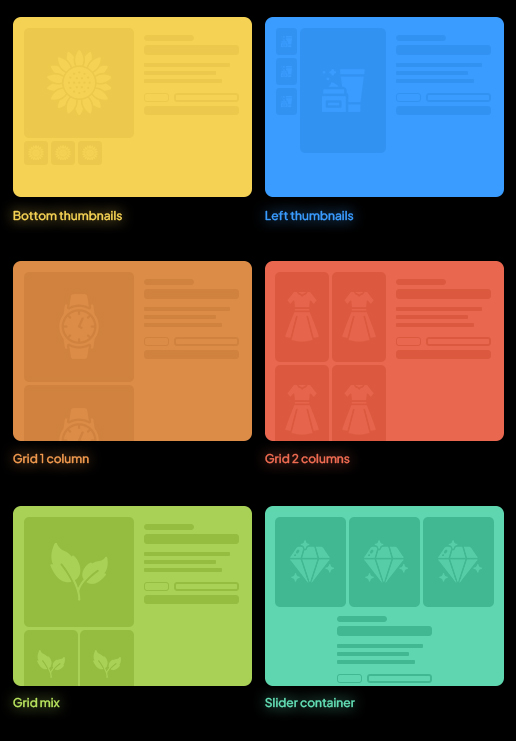
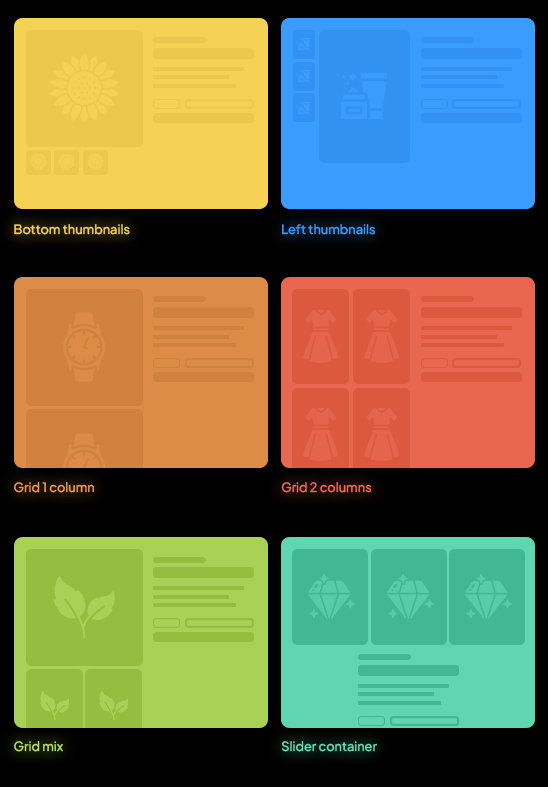
update image and feature

diff --git a/index.html b/index.html
@@ -1776,7 +1776,7 @@
                       </div>
                     </div>
                     <div class="feature-row__img">
-                      <img src="" alt="Sales Notifications">
+                      <img src="./assets/images/Sales-Notifications.jpg" alt="Sales Notifications">
                     </div>
                   </div>
                 </div>
@@ -1826,7 +1826,7 @@
                           </div>
                         </div>
                         <div class="feature-row2-col6__image-desktop">
-                          <img src="./assets/images/feature04.jpg" alt="image desktop">
+                          <img src="./assets/images/Sell-Smarter-Across-Devices_01.jpg" alt="image desktop">
                         </div>
                       </div>
                       <div class="feature-row2-col6__mobile">
@@ -1847,7 +1847,7 @@
                           </div>
                         </div>
                         <div class="feature-row2-col6__image-desktop">
-                          <img src="./assets/images/feature05.jpg" alt="image desktop">
+                          <img src="./assets/images/Sell-Smarter-Across-Devices_02.jpg" alt="image mobile">
                         </div>
                       </div>
                     </div>
@@ -1913,7 +1913,7 @@
                       </div>
                     </div>
                     <div class="feature-row__img">
-                      <img src="./assets/images/Product-Variation-Swatches.jpg" alt="Variation-Swatches">
+                      <img src="./assets/images/Product-Variation-Swatches_2.jpg" alt="Variation-Swatches">
                     </div>
                   </div>
                 </div>
@@ -1980,48 +1980,20 @@
             <div class="feature-row3 reveal">
               <div class="row ">
                 <div class="col-12 col-lg-7">
-                  <div class="feature-row3-col7 feature-col7">
-                    <div class="feature-col-content">
-                      <div class="feature-col-title">Mega menu</div>
-                      <div class="feature-row3-col7__description">
+                  <div class="feature-row__item feature-gap">
+                    <div class="feature-row__content">
+                      <div class="feature-row__title feature-col-title">Mega menu</div>
+                      <div class="feature-row__description">
                         <span>Organize your navigation with a powerful mega menu and visual tools that let you link
                           pages, scroll to sections, or open modals guiding users with ease.</span>
                       </div>
                     </div>
-                    <div class="feature-row3-col7__bottom">
-                      <div class="feature-row3-col7__bg">
-                        <div class="feature-row3-col7__nav">
-                          <div class="feature-row3-col7__nav-item">
-                            <p>Home</p>
-                          </div>
-                          <div class="feature-row3-col7__nav-item">
-                            <p>About</p>
-                          </div>
-                          <div class="feature-row3-col7__nav-item">
-                            <p>Works</p>
-                          </div>
-                          <div class="feature-row3-col7__nav-item">
-                            <p>Contact</p>
-                          </div>
-                        </div>
-                        <div class="feature-row3-col7__close">
-                          <svg width="30" viewBox="0 0 24 24" fill="none" xmlns="http://www.w3.org/2000/svg">
-                            <g id="SVGRepo_bgCarrier" stroke-width="0"></g>
-                            <g id="SVGRepo_tracerCarrier" stroke-linecap="round" stroke-linejoin="round"></g>
-                            <g id="SVGRepo_iconCarrier">
-                              <path fill-rule="evenodd" clip-rule="evenodd"
-                                d="M5.29289 5.29289C5.68342 4.90237 6.31658 4.90237 6.70711 5.29289L12 10.5858L17.2929 5.29289C17.6834 4.90237 18.3166 4.90237 18.7071 5.29289C19.0976 5.68342 19.0976 6.31658 18.7071 6.70711L13.4142 12L18.7071 17.2929C19.0976 17.6834 19.0976 18.3166 18.7071 18.7071C18.3166 19.0976 17.6834 19.0976 17.2929 18.7071L12 13.4142L6.70711 18.7071C6.31658 19.0976 5.68342 19.0976 5.29289 18.7071C4.90237 18.3166 4.90237 17.6834 5.29289 17.2929L10.5858 12L5.29289 6.70711C4.90237 6.31658 4.90237 5.68342 5.29289 5.29289Z"
-                                fill="var(--color-star)"></path>
-                            </g>
-                          </svg>
-                        </div>
-                        <div class="feature-row3-col7__img">
-                          <img src="./assets/images/feature08.jpg" alt="feature">
-                        </div>
-                      </div>
+                    <div class="feature-row__img">
+                      <img src="./assets/images/Mega-Menu.jpg" alt="Mega menu">
                     </div>
                   </div>
                 </div>
+                
                 <div class="col-12 col-lg-5">
                   <div class="feature-row3-col4 feature-col4">
                     <div class="feature-col-content">

diff --git a/assets/css/feature.css b/assets/css/feature.css
@@ -342,99 +342,6 @@
   );
 }
 
-.feature-row3-col7__bottom {
-  flex: 1 0 0px;
-  height: 1px;
-  overflow: visible;
-  position: relative;
-  width: 100%;
-}
-
-.feature-row3-col7__bg {
-  border-radius: 16px;
-  bottom: -94px;
-  box-shadow: 0 0 70px #0095ff80, 0 10px 20px #00000040, 0 0 0 1px #ffffff26;
-  flex: none;
-  overflow: hidden;
-  position: absolute;
-  right: 0;
-  top: 0;
-  width: 120%;
-}
-
-.feature-row3-col7__nav {
-  align-items: flex-start;
-  backdrop-filter: blur(5px);
-  background: radial-gradient(
-    100% 67% at 81.10000000000001% 1.9%,
-    #07325c 0%,
-    rgb(3, 12, 28) 78.25872747747748%
-  );
-  border-top-right-radius: 16px;
-  bottom: -27px;
-  box-shadow: -10px 0 20px #06071f73;
-  display: flex;
-  flex: none;
-  flex-direction: column;
-  flex-wrap: nowrap;
-  gap: 0px;
-  justify-content: flex-start;
-  overflow: hidden;
-  padding: 100px 40px 40px;
-  position: absolute;
-  right: 0;
-  top: 0;
-  max-width: 280px;
-  width: 100%;
-  z-index: 1;
-  @media (max-width: 767px) {
-    max-width: 200px;
-    padding: 30px;
-  }
-}
-
-.feature-row3-col7__nav-item {
-  cursor: pointer;
-  flex: none;
-  height: auto;
-  opacity: 0.6;
-  position: relative;
-  user-select: none;
-  width: 100%;
-  word-break: break-word;
-  word-wrap: break-word;
-  font-size: 32px;
-  color: #fff;
-  transition: all 0.3s ease;
-  line-height: 1.3;
-}
-
-.feature-row3-col7__nav-item:hover {
-  transform: translateX(10px);
-}
-
-.feature-row3-col7__nav-item:nth-child(3) {
-  opacity: 1;
-}
-
-.feature-row3-col7__close {
-  position: absolute;
-  top: 30px;
-  right: 30px;
-  z-index: 1;
-  opacity: 0.6;
-  cursor: pointer;
-  transition: 0.5s ease all;
-  @media (max-width: 767px) {
-    top: 10px;
-    right: 10px;
-  }
-}
-
-.feature-row3-col7__close:hover {
-  transform: rotate(360deg);
-}
-
 .feature-row3-col7__img img {
   width: 100%;
 }
